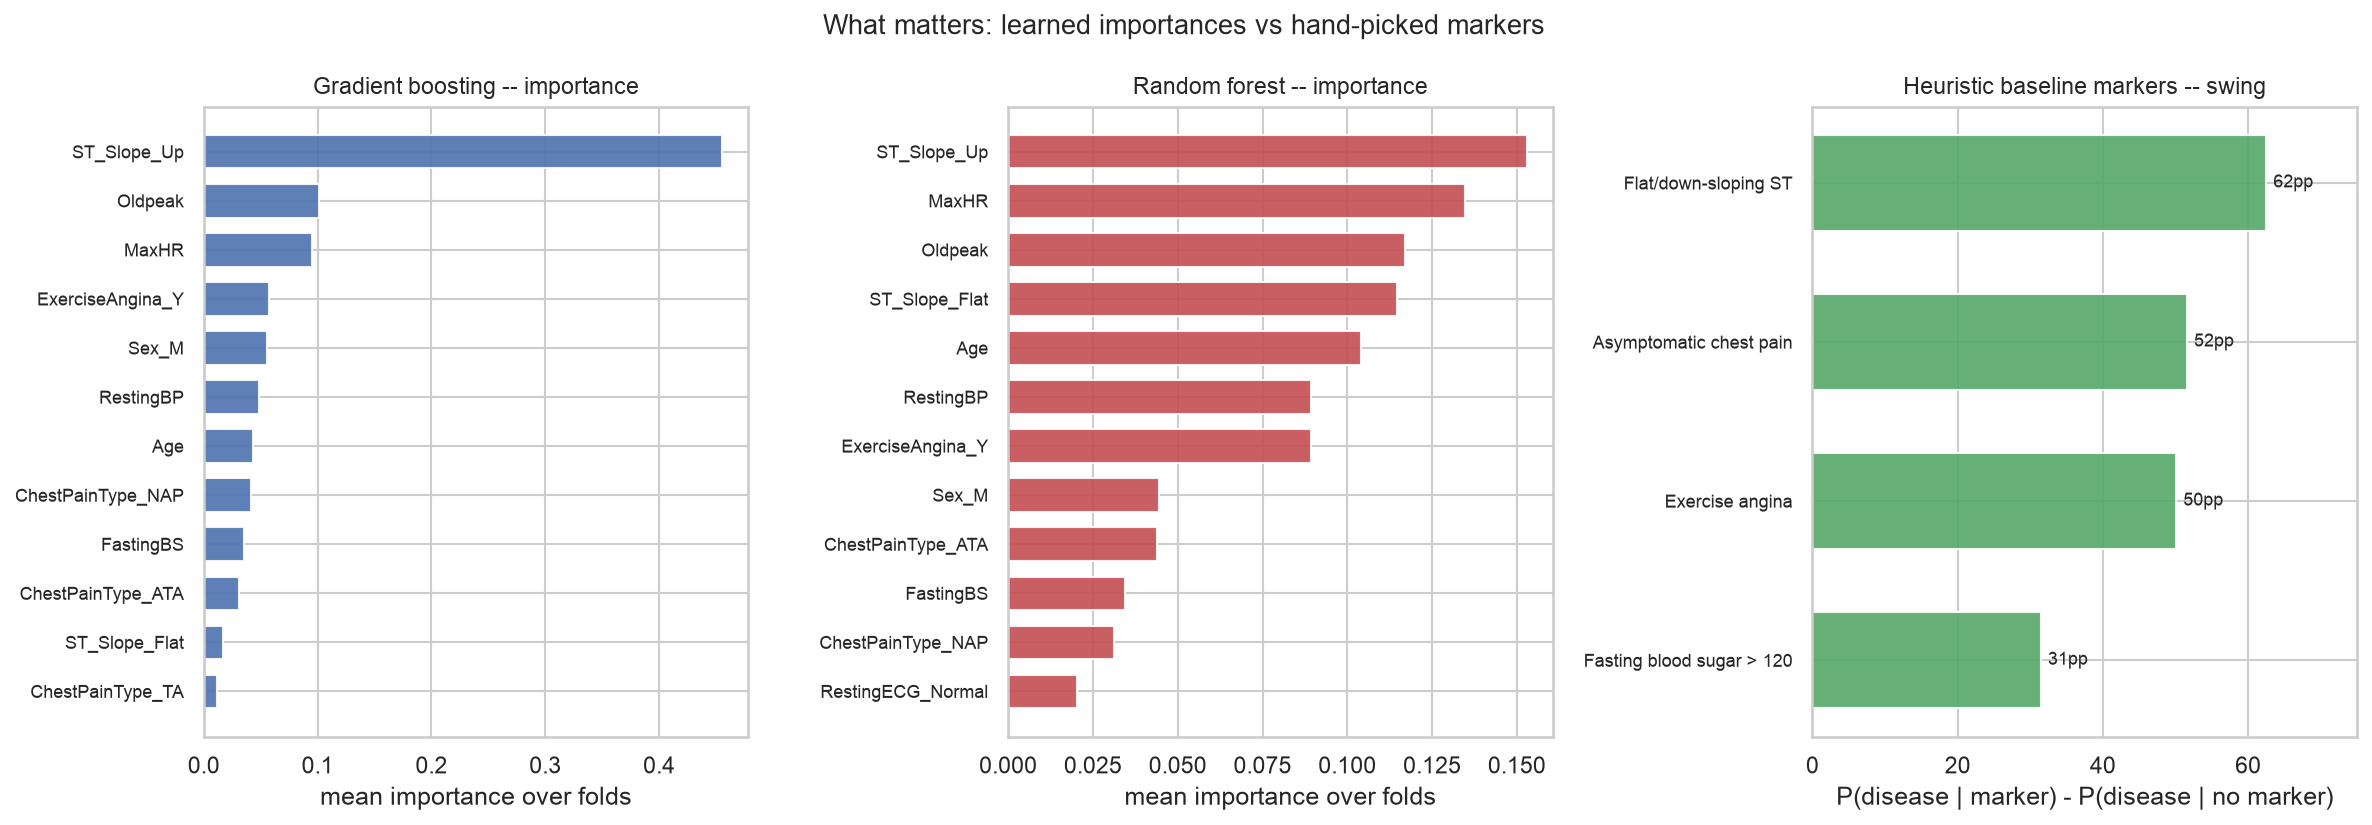
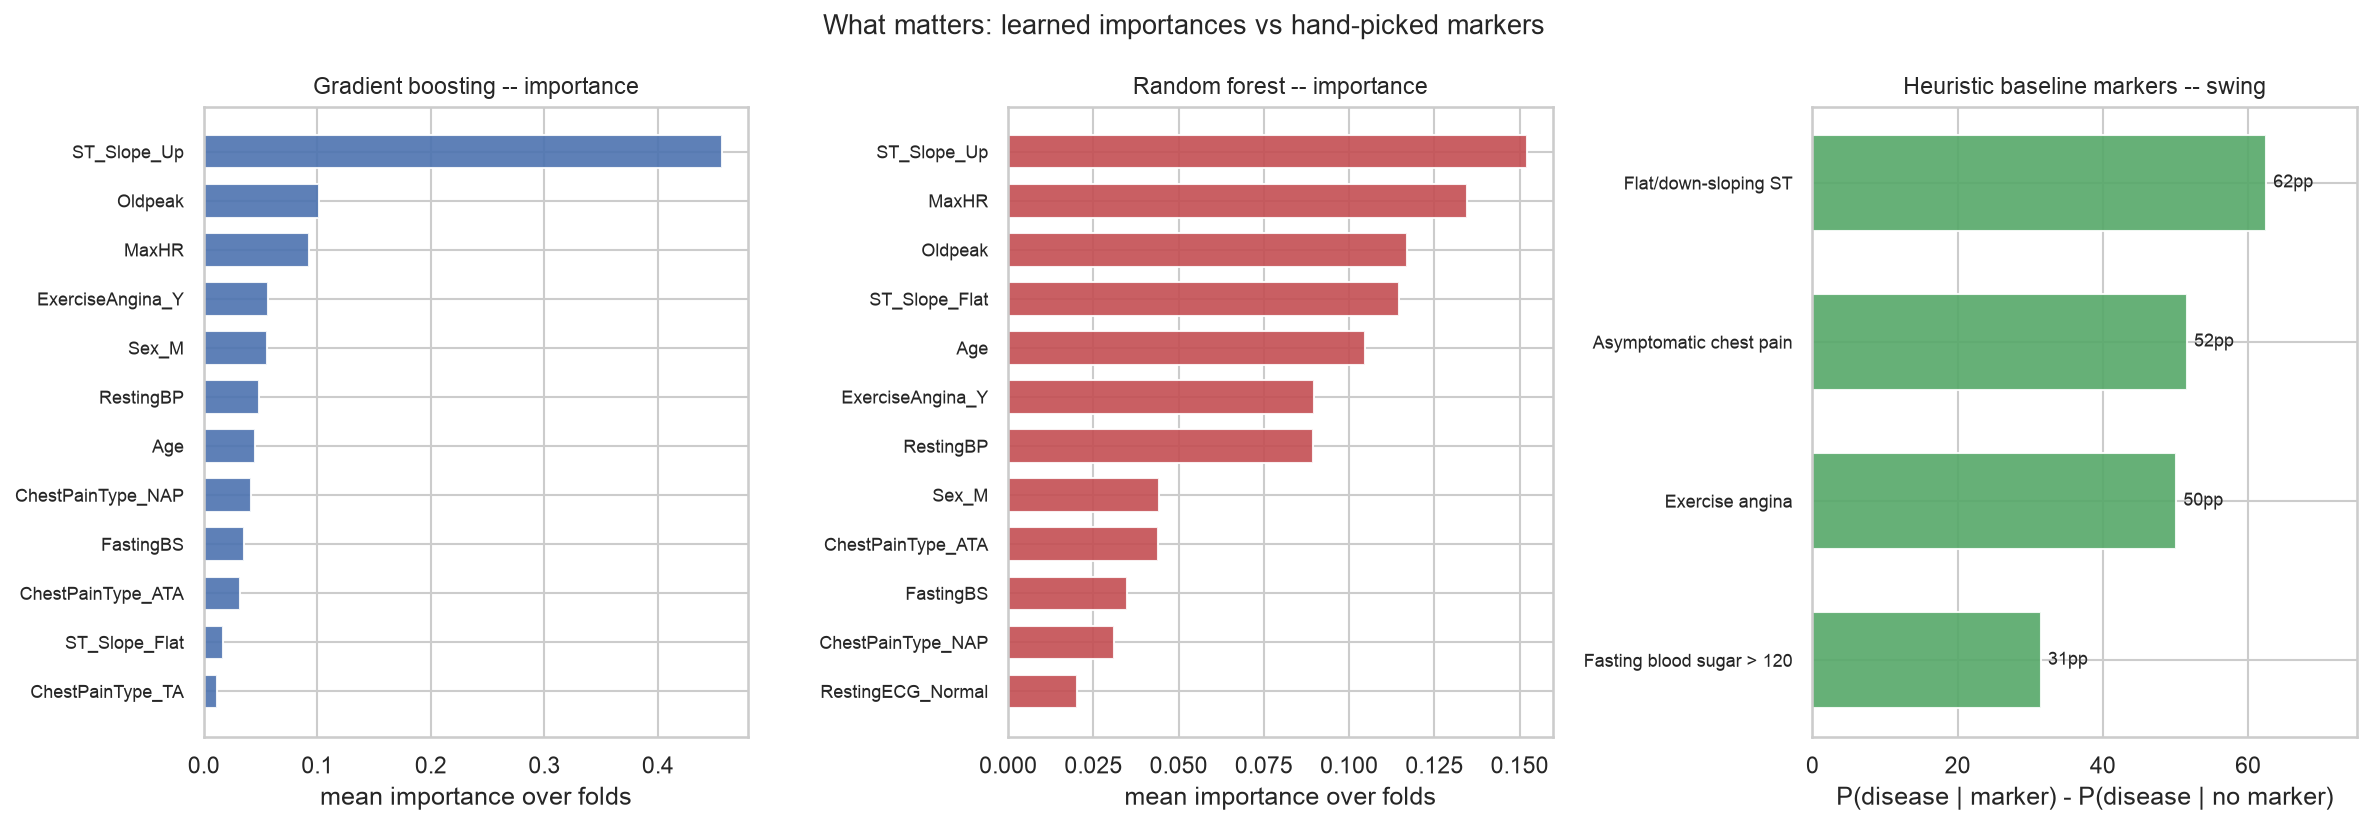
Leak-free median imputation for RestingBP; regenerate figures

Changed region(s): [[0.4368, 0.9091, 0.6551, 0.9394], [0.3432, 0.4545, 0.4368, 0.5758], [0.2184, 0.9091, 0.2496, 0.9394]]

diff --git a/analysis.py b/analysis.py
@@ -10,12 +10,13 @@ leaking test information:
   1. loads the Heart Failure dataset (heart.csv next to this file),
   2. CLEANS the data:
        - drops the Cholesterol column (and any cholesterol-derived fields),
+       - treats RestingBP = 0 (impossible) as missing and median-imputes it,
        - winsorizes the continuous numeric columns to their 1.5*IQR fences
-         (Age, RestingBP, MaxHR, Oldpeak). For the learned models the fences are
-         fit on the TRAINING fold only and then applied to train + test, so no
-         test statistic leaks into training. This also fixes the impossible
-         RestingBP = 0 record (clamped up to the training-fold lower fence).
-         EDA figures use cohort-level fences for a descriptive view only.
+         (Age, RestingBP, MaxHR, Oldpeak).
+     For the learned models BOTH the imputation median and the fences are fit on
+     the TRAINING fold only and then applied to that fold's train + test rows, so
+     no test statistic leaks into training. EDA figures use cohort-level medians
+     and fences for a descriptive view only.
   3. renders dataset-overview figures: class balance, disease rate by category,
      numeric distributions by outcome, and the correlation matrix,
   4. benchmarks three analytic methods under IDENTICAL stratified 5-fold CV:
@@ -58,11 +59,17 @@ RANDOM_STATE = 42
 RULE_CUTOFF = 2
 DECISION_THRESHOLD = 0.5
 
-# Cleaning: drop cholesterol, then winsorize the continuous numerics.
+# Cleaning: drop cholesterol, mark sentinel zeros as missing, then impute +
+# winsorize the continuous numerics (all fitted per training fold).
 DROP_COLUMNS = ["Cholesterol"]
 NUMERIC_COLS = ["Age", "RestingBP", "Cholesterol", "FastingBS", "MaxHR", "Oldpeak"]
 MODEL_NUMERIC_COLS = [c for c in NUMERIC_COLS if c not in DROP_COLUMNS]
-# FastingBS is binary (0/1) so IQR clamping is meaningless for it.
+# Sentinel codes that mean "missing" (physiologically impossible readings).
+MISSING_SENTINELS = {"RestingBP": 0}
+# Columns median-imputed (median fit on the training fold only).
+IMPUTE_COLUMNS = ["RestingBP"]
+# Continuous columns winsorized to 1.5*IQR fences. FastingBS is binary (0/1) so
+# IQR clamping is meaningless for it.
 CLAMP_COLUMNS = ["Age", "RestingBP", "MaxHR", "Oldpeak"]
 
 CATEGORICAL_COLS = ["Sex", "ChestPainType", "RestingECG", "ExerciseAngina", "ST_Slope"]
@@ -120,10 +127,45 @@ def clamp_with(df: pd.DataFrame, fences: dict[str, tuple[float, float, int, int]
     return out
 
 
-def descriptive_clean(base: pd.DataFrame) -> tuple[pd.DataFrame, dict]:
-    """Cohort-level winsorization, for EDA/figures only (never used for scoring)."""
-    fences = cohort_fences(base, CLAMP_COLUMNS)
-    return clamp_with(base, fences), fences
+def mark_missing(
+    df: pd.DataFrame, sentinels: dict[str, int]
+) -> tuple[pd.DataFrame, int]:
+    """Turn sentinel codes (e.g. RestingBP = 0) into NaN. Returns (frame, n marked)."""
+    out = df.copy()
+    n = 0
+    for col, val in sentinels.items():
+        mask = out[col] == val
+        n += int(mask.sum())
+        out.loc[mask, col] = np.nan
+    return out, n
+
+
+def impute_train_medians(
+    X_train: pd.DataFrame, X_test: pd.DataFrame, columns: list[str]
+) -> tuple[pd.DataFrame, pd.DataFrame, dict[str, float]]:
+    """Median-impute columns using TRAINING-fold medians only (leak-free)."""
+    Xtr, Xte = X_train.copy(), X_test.copy()
+    medians: dict[str, float] = {}
+    for col in columns:
+        med = float(X_train[col].median())
+        medians[col] = med
+        Xtr[col] = Xtr[col].fillna(med)
+        Xte[col] = Xte[col].fillna(med)
+    return Xtr, Xte, medians
+
+
+def descriptive_clean(
+    base: pd.DataFrame,
+) -> tuple[pd.DataFrame, dict[str, float], dict]:
+    """Cohort-level median impute + winsorization, for EDA/figures only."""
+    desc = base.copy()
+    medians: dict[str, float] = {}
+    for col in IMPUTE_COLUMNS:
+        med = float(base[col].median())
+        medians[col] = med
+        desc[col] = desc[col].fillna(med)
+    fences = cohort_fences(desc, CLAMP_COLUMNS)
+    return clamp_with(desc, fences), medians, fences
 
 
 def encode_features(base: pd.DataFrame) -> pd.DataFrame:
@@ -245,14 +287,23 @@ def _banner(k: int) -> None:
     print("=" * 82)
 
 
-def report_cleaning(dropped: list[str], fences: dict, n: int) -> None:
+def report_cleaning(
+    dropped: list[str],
+    n_missing: int,
+    medians: dict[str, float],
+    fences: dict,
+    n: int,
+) -> None:
     print("\n[0] Cleaning (leak-free)")
     print(f"  dropped columns      : {', '.join(dropped) if dropped else '(none)'}")
     print(f"  rows                 : {n}  (unchanged)")
-    print(f"  winsorized columns   : {', '.join(CLAMP_COLUMNS)}")
-    print("  fence fitting        : 1.5*IQR fit on each TRAINING fold, then applied")
-    print("                         to that fold's train + test rows (no leakage)")
-    print("  descriptive (EDA)    : cohort-level fences used for figures only")
+    sentinels = ", ".join(f"{c}={v}" for c, v in MISSING_SENTINELS.items())
+    print(f"  sentinel -> missing  : {sentinels}  ({n_missing} cell marked NaN)")
+    print(f"  median imputation    : {', '.join(IMPUTE_COLUMNS)}"
+          f"  (median fit per TRAINING fold -> train + test)")
+    print(f"  winsorized columns   : {', '.join(CLAMP_COLUMNS)}  (1.5*IQR, per training fold)")
+    print("  descriptive (EDA)    : cohort-level median + fences used for figures only")
+    print("  cohort medians (EDA) : " + ", ".join(f"{c}={m:.1f}" for c, m in medians.items()))
     print(f"  {'column':<12s} {'lower':>8s} {'upper':>8s} {'low':>6s} {'high':>6s}  <- whole-cohort reference")
     for col, (lo, hi, below, above) in fences.items():
         print(f"  {col:<12s} {lo:>8.1f} {hi:>8.1f} {below:>6d} {above:>6d}")
@@ -343,7 +394,8 @@ def report_insights(order: list[str], summaries: dict[str, pd.DataFrame]) -> Non
     print("    most of the signal is carried by a handful of clinical flags")
     print("  * tree ensembles can use interactions and graded features")
     print("    (Oldpeak, MaxHR) that the rule does not use")
-    print("  * cleaning: cholesterol dropped, numerics winsorized per training fold")
+    print("  * cleaning: cholesterol dropped; RestingBP=0 median-imputed;"
+          " numerics winsorized -- all per training fold")
     print("  * per-fold SD describes variation across these folds;")
     print("    it does not establish statistical superiority or clinical readiness")
 
@@ -603,15 +655,16 @@ def main() -> None:
         raise KeyError(f"dataset must contain a '{LABEL_COL}' label column")
 
     base, dropped = drop_cholesterol(raw)
-    desc, fences = descriptive_clean(base)          # EDA/figures only
+    base, n_missing = mark_missing(base, MISSING_SENTINELS)
+    desc, medians, fences = descriptive_clean(base)  # EDA/figures only
 
     y = base[LABEL_COL].to_numpy()
-    X = encode_features(base)                        # un-winsorized (fences per fold)
+    X = encode_features(base)                        # NaN kept; imputed per fold
     folds = make_folds(y, args.folds, args.seed)
     score = rule_score(base)
 
     _banner(args.folds)
-    report_cleaning(dropped, fences, len(base))
+    report_cleaning(dropped, n_missing, medians, fences, len(base))
     report_data(desc, X, y)
 
     print("\n  rendering dataset-overview figures")
@@ -639,9 +692,10 @@ def main() -> None:
         ("Random forest", lambda: RandomForestClassifier(random_state=args.seed), rf_imp),
     ):
         def predict(tr, te, factory=factory, store=store):
-            fences = train_fences(X.iloc[tr])              # fit on TRAIN only
-            Xtr = apply_train_fences(X.iloc[tr], fences)
-            Xte = apply_train_fences(X.iloc[te], fences)   # same fences -> no leak
+            Xtr, Xte, _ = impute_train_medians(X.iloc[tr], X.iloc[te], IMPUTE_COLUMNS)
+            fences = train_fences(Xtr)                    # fences fit on TRAIN only
+            Xtr = apply_train_fences(Xtr, fences)
+            Xte = apply_train_fences(Xte, fences)         # same fences -> no leak
             model = factory()
             model.fit(Xtr, y[tr])
             store.append(model.feature_importances_)
@@ -655,7 +709,7 @@ def main() -> None:
 
     print(f"\n[2b] Shared design: {args.folds} stratified folds, same split for all "
           f"methods, seed={args.seed}, rule cutoff={args.cutoff}")
-    print("     learned models: winsorization fitted per training fold (leak-free)")
+    print("     learned models: median-impute + winsorize fitted per training fold")
 
     pooled = {
         name: report_pooled(name, y, oofs[name], thresholds[name]) for name in summaries

diff --git a/README.md b/README.md
@@ -26,15 +26,18 @@ https://www.kaggle.com/datasets/fedesoriano/heart-failure-prediction
 1. **Drop cholesterol.** `Cholesterol` (and any cholesterol-derived fields) is
    removed entirely — its impossible `0` sentinels (172 rows, 18.7%) make it an
    unreliable predictor.
-2. **Winsorize continuous numerics.** `Age`, `RestingBP`, `MaxHR`, `Oldpeak` are
-   clamped to their **1.5×IQR fences**. This also resolves the one impossible
-   `RestingBP = 0` record (clamped up to the lower fence).
-3. **Leak-free by construction.** For the learned models the fences are fit on
-   **each training fold only** and then applied to that fold's training *and*
-   test rows — no test statistic ever influences training. (EDA figures use
-   cohort-level fences for a descriptive view only; they are never used for
-   scoring. `FastingBS` is binary, so IQR clamping is meaningless for it.)
-4. **Encoding.** 5 numeric features + one-hot categoricals (`drop_first`) = **14
+2. **Mark impossible values as missing.** The one physiologically impossible
+   `RestingBP = 0` reading is converted to missing and **median-imputed**
+   (cohort median = 130 mmHg).
+3. **Winsorize continuous numerics.** `Age`, `RestingBP`, `MaxHR`, `Oldpeak` are
+   clamped to their **1.5×IQR fences**.
+4. **Leak-free by construction.** For the learned models, **both** the
+   imputation median **and** the IQR fences are fit on **each training fold
+   only**, then applied to that fold's training *and* test rows — no test
+   statistic ever influences training. (EDA figures use cohort-level
+   medians/fences for a descriptive view only; they are never used for scoring.
+   `FastingBS` is binary, so IQR clamping is meaningless for it.)
+5. **Encoding.** 5 numeric features + one-hot categoricals (`drop_first`) = **14
    encoded model inputs**.
 
 ---
@@ -57,20 +60,20 @@ seed=42)` folds. Primary metric: **MCC** (uses all four confusion-matrix cells).
 
 | Method | MCC | AUC | F1 | Accuracy | Recall | Specificity |
 |---|---|---|---|---|---|---|
-| **Random forest** | **0.723** | 0.924 | 0.878 | 0.863 | 0.894 | 0.824 |
-| Gradient boosting | 0.706 | 0.916 | 0.871 | 0.854 | 0.890 | 0.811 |
+| **Random forest** | **0.714** | 0.924 | 0.874 | 0.858 | 0.886 | 0.824 |
+| Gradient boosting | 0.706 | 0.918 | 0.870 | 0.854 | 0.884 | 0.817 |
 | Heuristic baseline | 0.697 | 0.904 | 0.865 | 0.850 | 0.868 | 0.827 |
 
 ### Pooled out-of-fold (all 918 patients)
 
 | Method | TP | FP | TN | FN | MCC |
 |---|---|---|---|---|---|
-| Random forest | 454 | 72 | 338 | 54 | 0.722 |
-| Gradient boosting | 452 | 78 | 332 | 56 | 0.704 |
+| Random forest | 450 | 72 | 338 | 58 | 0.713 |
+| Gradient boosting | 449 | 75 | 335 | 59 | 0.704 |
 | Heuristic baseline | 441 | 71 | 339 | 67 | 0.696 |
 
 Random forest has the highest mean MCC and catches the most disease cases
-(454 vs 441 for the rule); the 4-marker rule stays within ~0.03 MCC of the full
+(450 vs 441 for the rule); the 4-marker rule stays within ~0.02 MCC of the full
 ensembles. These are **descriptive, dataset-specific** comparisons — five folds
 alone do not establish statistical or clinical superiority.
 
@@ -110,11 +113,13 @@ Requires: `pandas`, `numpy`, `scikit-learn`, `matplotlib`, `seaborn`.
 
 ## Notes & limitations
 
-- **Leak-free winsorization** is the key methodological choice here: fences are
-  train-fold only. (An earlier draft clamped the whole cohort; results shifted
-  slightly — RF 0.725 → 0.723, GB 0.699 → 0.706.)
-- Winsorization barely changes the tree models because they split on thresholds
-  and are relatively robust to extreme values.
+- **Leak-free imputation + winsorization** is the key methodological choice
+  here: both the missing-value median and the IQR fences are fit on training
+  folds only. (Earlier drafts that processed the whole cohort, or merely clamped
+  the impossible zero, shifted results slightly — RF MCC 0.723 → **0.714**, GB
+  0.706 unchanged.)
+- Imputing/winsorizing barely changes the tree models because they split on
+  thresholds and are relatively robust to extreme values.
 - The `ClinicalRiskScore` rule is a project-defined heuristic, **not** a
   validated clinical score. Results are internal cross-validation only and are
   not evidence of clinical readiness.
